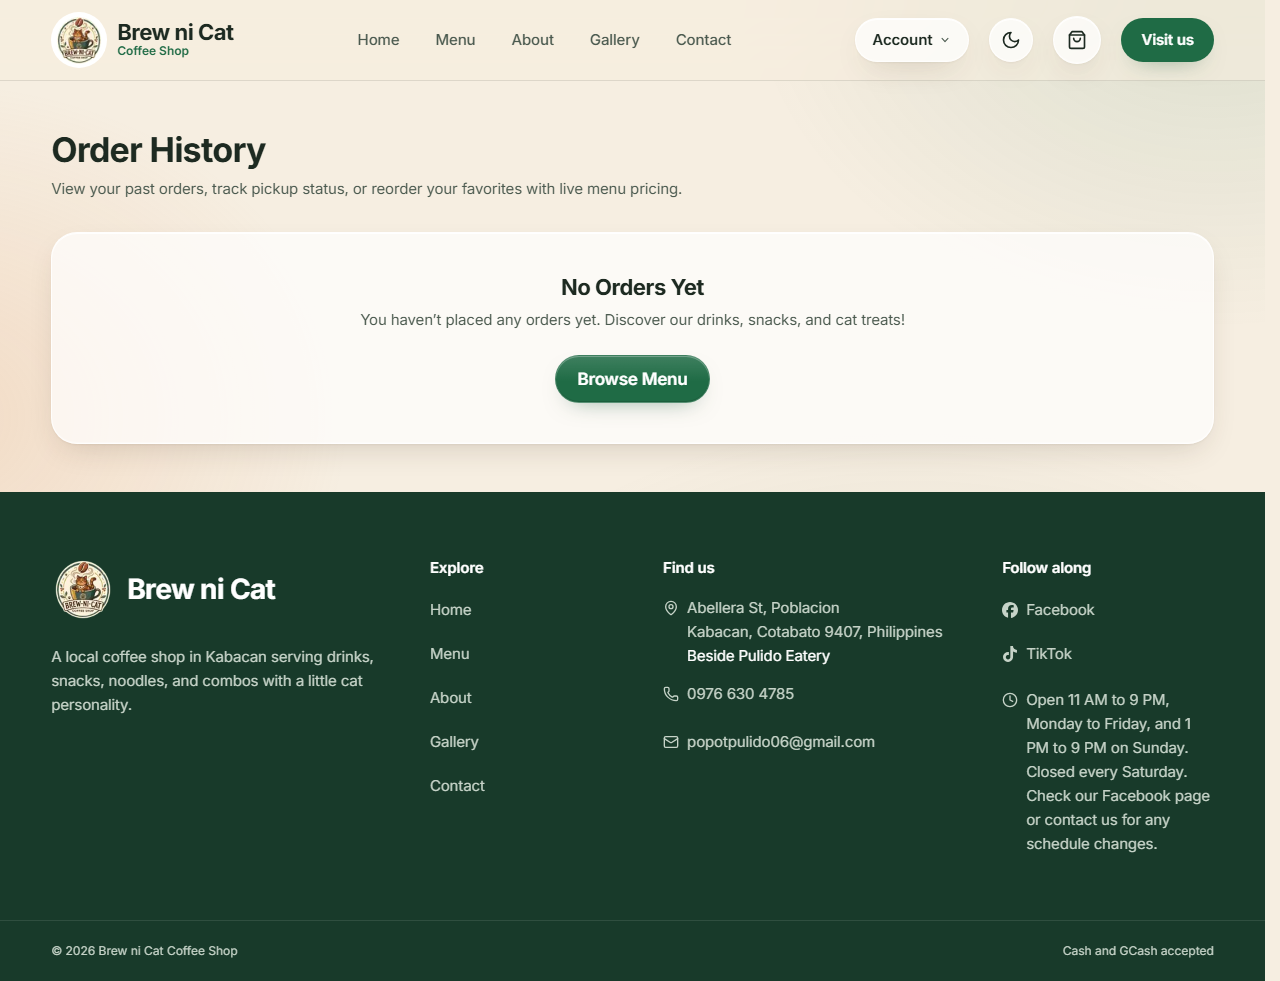
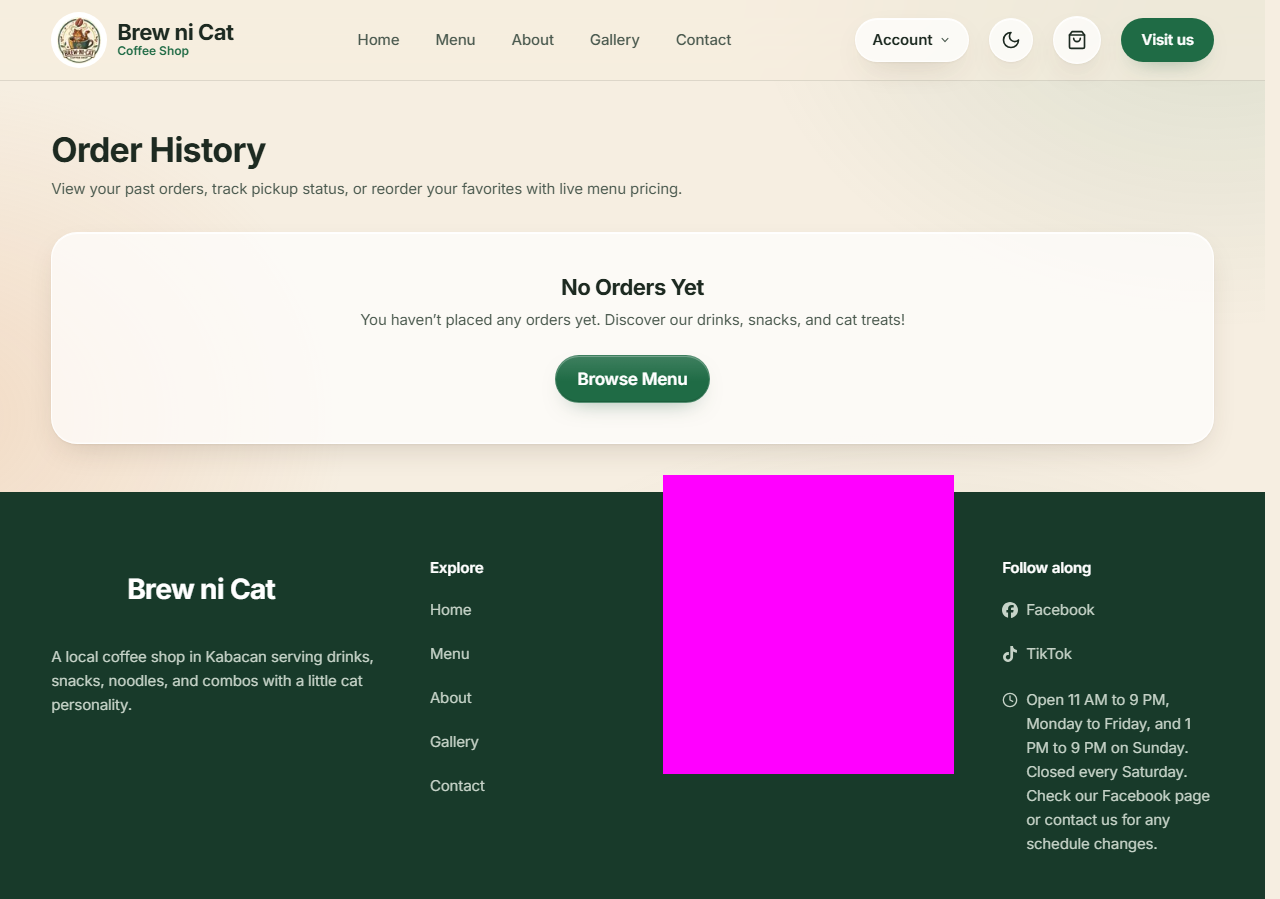
fix: mask footer contact details in evidence and count reorder quantity (FR-039, FR-041)

diff --git a/tests/e2e/order-history.spec.ts b/tests/e2e/order-history.spec.ts
@@ -243,6 +243,9 @@ async function capture(page: Page, filename: string) {
   await page.screenshot({
     path: `${EVIDENCE_DIR}/${filename}`,
     fullPage: true,
+    // Cover the footer's "Find us" column so the shop's phone number and
+    // email address stay out of committed evidence.
+    mask: [page.getByRole("region", { name: "Find us" })],
   });
 }
 
@@ -338,7 +341,7 @@ test.describe("Customer order history and reorder", () => {
 
     const notices = page.getByRole("region", { name: "Reorder notices" });
     await expect(notices).toBeVisible();
-    await expect(notices).toContainText("Added 1 item to your cart.");
+    await expect(notices).toContainText("Added 2 items to your cart.");
     await expect(notices).toContainText("Price updates:");
     await expect(notices).toContainText(
       "Price for Brew Special Coffee (16 oz) has changed from ₱140 to ₱150.",

diff --git a/src/lib/orders/reorder.ts b/src/lib/orders/reorder.ts
@@ -160,9 +160,13 @@ export function reorderItems(
   }
 
   const notices = [...unavailableItems, ...priceChangedItems];
+  const addedQuantity = addedItems.reduce(
+    (total, item) => total + item.quantity,
+    0,
+  );
   const successMessage =
-    addedItems.length > 0
-      ? `Added ${addedItems.length} item${addedItems.length === 1 ? "" : "s"} to your cart.`
+    addedQuantity > 0
+      ? `Added ${addedQuantity} item${addedQuantity === 1 ? "" : "s"} to your cart.`
       : null;
 
   return {

diff --git a/tests/unit/reorder.test.ts b/tests/unit/reorder.test.ts
@@ -92,7 +92,7 @@ describe("Reorder logic (FR-041)", () => {
     expect(result.addedCount).toBe(1);
     expect(result.unavailableItems).toHaveLength(0);
     expect(result.priceChangedItems).toHaveLength(0);
-    expect(result.successMessage).toBe("Added 1 item to your cart.");
+    expect(result.successMessage).toBe("Added 2 items to your cart.");
     expect(addItemMock).toHaveBeenCalledWith(sampleCatalog, {
       itemId: "special-brew",
       variantId: "large-16",

diff --git a/tests/unit/order-history.test.tsx b/tests/unit/order-history.test.tsx
@@ -297,7 +297,7 @@ describe("OrderHistoryView (FR-039, FR-041)", () => {
     expect(
       await screen.findByRole("region", { name: "Reorder notices" }),
     ).toBeInTheDocument();
-    expect(screen.getByText(/Added 1 item to your cart/i)).toBeInTheDocument();
+    expect(screen.getByText(/Added 2 items to your cart/i)).toBeInTheDocument();
     expect(screen.getByText(/Price updates:/i)).toBeInTheDocument();
     expect(
       screen.getByText(

diff --git a/docs/test-cases.md b/docs/test-cases.md
@@ -677,7 +677,7 @@ Run on 2026-11-04. `npx vitest run tests/unit/order-history-service.test.ts test
 | TC-P5-002 | FR-039 | `OrderHistoryView` | Authenticated customer sees orders newest first | `AuthProvider` with signed-in customer; `fetchCustomerOrders` resolves with 2 orders | Render and await async load | Order cards appear with reference numbers, statuses, item counts, and subtotals rendered by `formatPrice` | Matched. | Passed | `tests/unit/order-history.test.tsx` |
 | TC-P5-003 | FR-039 | `OrderHistoryView` | Empty state is shown when customer has no orders | `fetchCustomerOrders` resolves with `orders: []` | Render and await async load | "No orders yet" empty-state message is displayed | Matched. | Passed | `tests/unit/order-history.test.tsx` |
 | TC-P5-004 | FR-039 | `OrderHistoryView` | Pagination controls shown for multi-page results and navigation works | `fetchCustomerOrders` reports `totalPages: 2`, `page: 1` on first call, page 2 data on second | Render, await page 1, click Next | Next/Previous buttons appear; clicking Next calls `fetchCustomerOrders({ page: 2, pageSize: 10, userId: "customer-123" })` and renders page 2 orders | Matched. | Passed | `tests/unit/order-history.test.tsx` |
-| TC-P5-005 | FR-041 | `OrderHistoryView` Reorder | Price-change notice is shown explicitly; changed-price item is still added at current price | Order with one item at old price; catalog has same item at a different current price | Click Reorder on an order card | Notice banner shows "Price changed" section listing the item and both prices; item is added to cart | Matched. | Passed | `tests/unit/order-history.test.tsx` |
+| TC-P5-005 | FR-041 | `OrderHistoryView` Reorder | Price-change notice is shown explicitly; changed-price item is still added at current price | Order with one item at old price; catalog has same item at a different current price | Click Reorder on an order card | "Reorder notices" region shows "Added 2 items to your cart." and "Price updates:" with "Price for Brew Special Coffee (16 oz) has changed from ₱140 to ₱150."; the item is added to the cart | Matched. | Passed | `tests/unit/order-history.test.tsx` |
 | TC-P5-006 | FR-041 | `OrderHistoryView` Reorder | Unavailable-item notice is shown explicitly; unavailable item is not added to cart | Order with one item (Matcha Latte) that is not in the menu catalog | Click Reorder | "Reorder notices" region shows "Unavailable items:" with "Matcha Latte (12 oz) is no longer on the menu and could not be added." | Matched. | Passed | `tests/unit/order-history.test.tsx` |
 | TC-P5-024 | FR-041 | `OrderHistoryView` Reorder | Menu-load failure gets its own notice and leaves the page error banner alone | Order with one item; `fetchPublicMenu` rejects | Click Reorder | "Reorder notices" region shows "We couldn't load the menu. Try again."; no page-level `alert` is rendered | Matched. | Passed | `tests/unit/order-history.test.tsx` |
 
@@ -685,18 +685,18 @@ Run on 2026-11-04. `npx vitest run tests/unit/order-history-service.test.ts test
 
 | ID | Requirement ID(s) | Module | Scenario | Preconditions | Input / action | Expected result | Actual result | Status | Evidence |
 |---|---|---|---|---|---|---|---|---|---|
-| TC-P5-010 | FR-041 | `reorderItems` | Available item is added at current catalog price | Catalog has the ordered item at current price | Call `reorderItems` with a single-item order | `addItem` called once with current-price quantity 1; `unavailableItems` and `priceChangedItems` are empty | Matched. | Passed | `tests/unit/reorder.test.ts` |
+| TC-P5-010 | FR-041 | `reorderItems` | Available item is added at current catalog price | Catalog has the ordered item at current price | Call `reorderItems` with one order line of quantity 2 | `addItem` called once with quantity 2; `addedCount` is 1; the message is "Added 2 items to your cart."; `unavailableItems` and `priceChangedItems` are empty | Matched. | Passed | `tests/unit/reorder.test.ts` |
 | TC-P5-011 | FR-041 | `reorderItems` | Unavailable item is explicitly identified, not added | Catalog does not contain the ordered item ID | Call `reorderItems` with a single unavailable item | `addItem` not called; `unavailableItems` contains the item name | Matched. | Passed | `tests/unit/reorder.test.ts` |
 | TC-P5-012 | FR-041 | `reorderItems` | Price change is explicitly alerted; item is still added | Catalog has the item but at a different price from the order | Call `reorderItems` | `addItem` called at current price; `priceChangedItems` entry lists the item name, old price, and new price using `formatPrice` | Matched. | Passed | `tests/unit/reorder.test.ts` |
 | TC-P5-013 | FR-041 | `reorderItems` | Mixed order: available added, unavailable reported, price-changed added and reported | Catalog has 2 of 3 items (one at changed price, one unchanged), one missing | Call `reorderItems` | Two `addItem` calls; one `unavailableItems` entry; one `priceChangedItems` entry | Matched. | Passed | `tests/unit/reorder.test.ts` |
 
 ### 30d. Order history browser evidence (TC-P5-030 to TC-P5-033)
 
-These run against the production build with Supabase Auth seeded in localStorage and PostgREST responses mocked, so no live account or real order is used. `content-range` is returned by the mocked `online_orders` endpoint to drive pagination.
+These run against the production build with Supabase Auth seeded in localStorage and PostgREST responses mocked, so no live account or real order is used. `content-range` is returned by the mocked `online_orders` endpoint to drive pagination. The footer's "Find us" column is masked in the captures so the shop's phone number and email address stay out of committed evidence.
 
 | ID | Requirement ID(s) | Module | Scenario | Preconditions | Input / action | Expected result | Actual result | Status | Evidence |
 |---|---|---|---|---|---|---|---|---|---|
 | TC-P5-030 | FR-039 | `/account/orders` | Signed-in customer sees their own orders and can page through them | Mocked session for `customer-123`; two mocked orders; `content-range: 0-1/12` | Open `/account/orders`, then click Page 2 | Request sends `customer_id=eq.customer-123`, `offset=0`, `limit=10`; page shows both orders and "Showing page 1 of 2 (12 orders total)"; Page 2 requests `offset=10&limit=10` | Matched. | Passed | `tests/e2e/order-history.spec.ts`, `docs/evidence/phase-5/screenshots/order-history-list.png` |
 | TC-P5-031 | FR-039 | `/account/orders` | Empty state is shown when the customer has no orders | Mocked session; `content-range: */0` | Open `/account/orders` | "No Orders Yet" heading with a Browse Menu link to `/menu` | Matched. | Passed | `tests/e2e/order-history.spec.ts`, `docs/evidence/phase-5/screenshots/order-history-empty.png` |
-| TC-P5-032 | FR-041 | `/account/orders` Reorder | Reorder shows both price updates and unavailable items | Mocked session and menu; order has one changed-price item and one item missing from the menu | Click Reorder | "Reorder notices" region shows "Added 1 item to your cart.", the ₱140 → ₱150 price update, and the unavailable Matcha Latte notice | Matched. | Passed | `tests/e2e/order-history.spec.ts`, `docs/evidence/phase-5/screenshots/order-history-reorder-notices.png` |
+| TC-P5-032 | FR-041 | `/account/orders` Reorder | Reorder shows both price updates and unavailable items | Mocked session and menu; order has one changed-price item and one item missing from the menu | Click Reorder | "Reorder notices" region shows "Added 2 items to your cart.", the ₱140 → ₱150 price update, and the unavailable Matcha Latte notice | Matched. | Passed | `tests/e2e/order-history.spec.ts`, `docs/evidence/phase-5/screenshots/order-history-reorder-notices.png` |
 | TC-P5-033 | FR-041 | `/orders/[reference]` | The order's owner sees the Reorder button on the order page | Mocked session; mocked `get_online_order` response | Open `/orders/BNC-7K2Q9F` | "Order Placed" heading, the order reference, and a visible Reorder button | Matched. | Passed | `tests/e2e/order-history.spec.ts`, `docs/evidence/phase-5/screenshots/order-page-reorder-button.png` |
